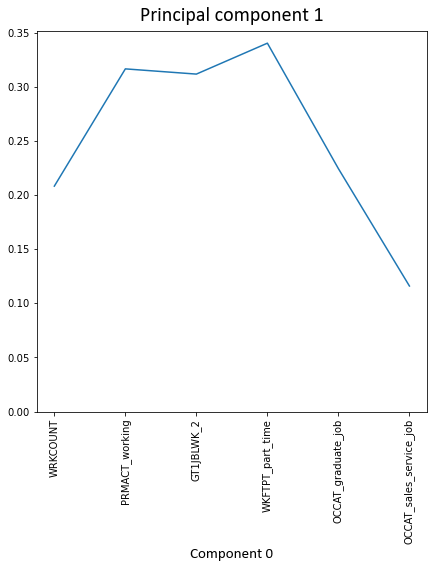
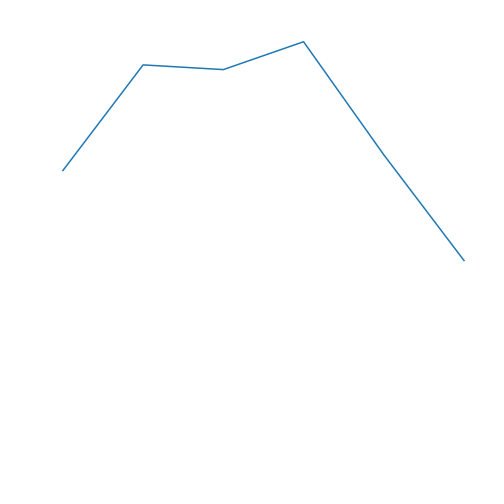
owiehfklwhelkjhflqew

diff --git a/index.html b/index.html
@@ -5,6 +5,7 @@
     <meta name="viewport" content="width=device-width, initial-scale=1.0">
     <meta description="Final Project in Social Data Visualization and Analysis - Human and Environmental analysis of electric car distribution and ownership. ">
     <title>Social Data Visualization</title>
+    <!-- <link rel="stylesheet" href="https://www.w3schools.com/w3css/4/w3.css"> -->
     <link rel="stylesheet" href="https://cdnjs.cloudflare.com/ajax/libs/font-awesome/5.15.4/css/all.min.css">
     <link rel="stylesheet" href="css/main.css">
     <script src="https://unpkg.com/scrollreveal"></script>
@@ -98,8 +99,10 @@
         <div class="content2">
           <h4>Compare the data directly</h4>
           <div class="inlined-graphs">
-            <iframe src="docs/tmp.html" height = '800', width = '1500' frameborder="0"></iframe>
-            <iframe src="docs/tmp.html" height = '800', width = '1500' frameborder="0"></iframe>
+            <iframe src="docs/tmp.html" frameborder="0" scrolling="yes"                       
+            height="700px" width="90%"></iframe>
+            <iframe src="docs/tmp.html" frameborder="0" scrolling="yes"                           
+            height="700px" width="90%"></iframe>
           </div>
         </div>
         <div class="content2">
@@ -130,28 +133,136 @@
         find the axes along which the dataset has most variance, thus making them the most central factors of the dataset. 
         Let's inspect the significant variables in the first three principal components so that we get a feeling for 
         what they represent: 
-        <div class="content">
-          <div class="image">
-            <img src="docs/princ_comp1.png" alt="">
-            <img src="docs/princ_comp2.png" alt="">
-            <img src="docs/princ_comp3.png" alt="">
+        <div class="w3-content w3-display-container">
+
+          <div class="w3-display-container mySlides">
+            <img src="docs/princ_comp1.png" style="width: 100%;">
           </div>
-        </div>
-        We can describe component 1 as an occupation vector, vector 2 seems to be a combination of transportation habits,
-        especially public transport. Vector 3 contains variables on electric or hybrid car ownership, paired with information on education and age. 
-        We plot the electric vehicle owners on these axes to see if they look different than the distribution of regular vehicle owners (which we suspect). 
-        <div class="content">
-          <div>
-            <img src="docs/people.jpg" alt="">
+          
+          <div class="w3-display-container mySlides">
+            <img src="docs/princ_comp2.png" style="width:100%">
           </div>
-          <div class="text-box">
-            <h3>Can Electric Vehicle Ownership be pre</h3>
-            <p>Lorem ipsum dolor sit amet, consectetur adipisicing elit, sed do eiusmod tempor incididunt ut labore et dolore magna
-              aliqua. Ut enim ad minim veniam, quis nostrud exercitation ullamco laboris nisi ut aliquip ex ea commodo consequat. Duis
-              aute irure dolor in reprehenderit in voluptate velit esse cillum dolore eu fugiat nulla pariatur.</p>
+          
+          <div class="w3-display-container mySlides">
+            <img src="docs/princ_comp3.png" style="height:700px">
           </div>
+          <div class="w3-display-container mySlides">
+            <img src="docs/princ_comp4.png" style="width:100%">
+          </div>
+          <div class="w3-display-container mySlides">
+            <img src="docs/princ_comp5.png" style="width:100%">
+          </div>
+          <div class="w3-display-container mySlides">
+            <img src="docs/princ_comp6.png" style="width:100%">
+          </div>
+          <div class="w3-display-container mySlides">
+            <img src="docs/princ_comp7.png" style="width:100%">
+          </div>
+          <div class="w3-display-container mySlides">
+            <img src="docs/princ_comp8.png" style="width:100%">
+          </div>
+          <div class="w3-display-container mySlides">
+            <img src="docs/princ_comp9.png" style="width:100%">
+          </div>
+          <div class="w3-display-container mySlides">
+            <img src="docs/princ_comp10.png" style="width:100%">
+          </div>
+          <button class="w3-button w3-display-left w3-black" onclick="plusDivs(-1)">&#10094;</button>
+          <button class="w3-button w3-display-right w3-black" onclick="plusDivs(1)">&#10095;</button>
 
         </div>
+        <script>
+          var slideIndex = 1;
+          showDivs(slideIndex);
+          
+          function plusDivs(n) {
+            showDivs(slideIndex += n);
+          }
+          
+          function showDivs(n) {
+            var i;
+            var x = document.getElementsByClassName("mySlides");
+            if (n > x.length) {slideIndex = 1}
+            if (n < 1) {slideIndex = x.length}
+            for (i = 0; i < x.length; i++) {
+               x[i].style.display = "none";  
+            }
+            x[slideIndex-1].style.display = "block";  
+          }
+        </script>
+        We can describe component 1 as an occupation vector, vector 2 seems to be a combination of transportation habits,
+        especially public transport. Vector 3 contains variables on electric or hybrid car ownership, paired with information on education and age. 
+        We can continue evaluating the other variables that way. In this case there's the 10 principal components, who account in total for around 40% of the
+        variance in the dataset. This might not seem like a lot but keep in mind that in this dataset there's a total of 89 principal components.
+        We plot the electric vehicle owners on these axes to see if they look different than the distribution of regular vehicle owners (which we suspect). For 
+        this we choose a jitter plot, so it is just the value on the principal component axes, with some noise added to make 
+        it visual. 
+        <div class="w3-content w3-display-container">
+
+          <div class="w3-display-container mySlides2">
+            <img src="docs/princ_comp_classes1.png" style="width: 100%;">
+          </div>
+          
+          <div class="w3-display-container mySlides2">
+            <img src="docs/princ_comp_classes2.png" style="width:100%">
+          </div>
+          
+          <div class="w3-display-container mySlides2">
+            <img src="docs/princ_comp_classes3.png" style="height:100%">
+          </div>
+          <div class="w3-display-container mySlides2">
+            <img src="docs/princ_comp_classes4.png" style="width:100%">
+          </div>
+          <div class="w3-display-container mySlides2">
+            <img src="docs/princ_comp_classes5.png" style="width:100%">
+          </div>
+          <div class="w3-display-container mySlides2">
+            <img src="docs/princ_comp_classes6.png" style="width:100%">
+          </div>
+          <div class="w3-display-container mySlides2">
+            <img src="docs/princ_comp_classes7.png" style="width:100%">
+          </div>
+          <div class="w3-display-container mySlides2">
+            <img src="docs/princ_comp_classes8.png" style="width:100%">
+          </div>
+          <div class="w3-display-container mySlides2">
+            <img src="docs/princ_comp_classes9.png" style="width:100%">
+          </div>
+          <div class="w3-display-container mySlides2">
+            <img src="docs/princ_comp_classes10.png" style="width:100%">
+          </div>
+          <button class="w3-button w3-display-left w3-black" onclick="plusDivs2(-1)">&#10094;</button>
+          <button class="w3-button w3-display-right w3-black" onclick="plusDivs2(1)">&#10095;</button>
+
+        </div>
+        <script>
+          var slideIndex2 = 1;
+          showDivs2(slideIndex2);
+
+          function showDivs2(n) {
+            var i;
+            var x = document.getElementsByClassName("mySlides2");
+            if (n > x.length) {slideIndex2 = 1}
+            if (n < 1) {slideIndex2 = x.length}
+            for (i = 0; i < x.length; i++) {
+               x[i].style.display = "none";  
+            }
+            x[slideIndex2-1].style.display = "block";  
+          }
+
+          function plusDivs2(n) {
+            showDivs2(slideIndex2 += n);
+          }
+          
+        </script>
+         We can start to see some interesting patterns. The forst component for example seems to have two classes, 
+         although electric and non-electric vehicles are equally present among both classes. For component 2, the 
+         classes of electric and non-electric vehicle owners are a bit separated, although overlapping, The EV-owners 
+         seem to generally have a higher value of this component, indicating that they live in more urban areas and 
+         use public transport more (which is of course quite correlated). Principal component three seems to entirely
+         separate the data, but here we need to be careful. This component contain, among others the separator "alternative fuel". 
+         So this will of course have this separation. The reader is welcome to continue this data exploration, using 
+         the slideshows presented. 
       </div>
     </section>
 

diff --git a/css/main.css b/css/main.css
@@ -176,9 +176,6 @@
   display: -webkit-box;
   display: -ms-flexbox;
   display: flex;
-  -webkit-box-align: center;
-      -ms-flex-align: center;
-          align-items: center;
 }
 
 .sec-02 .content2 .inlined-graphs iframe {
@@ -218,6 +215,10 @@
   margin-bottom: 50px;
 }
 
+.sec-03 .mySlides {
+  display: none;
+}
+
 .sec-03 .content {
   display: -webkit-box;
   display: -ms-flexbox;
@@ -235,7 +236,6 @@
   border: 1px solid rgba(255, 255, 255, 0.1);
   padding: 1em;
   margin: 2em 0em 2em 0em;
-  width: 80%;
   position: relative;
   overflow: hidden;
 }
@@ -295,5 +295,59 @@
 
 .source-section a:hover {
   color: var(--dtu-color);
+}
+
+.w3-display-container {
+  margin-top: 2em;
+  position: relative;
+  border-radius: 10px;
+  max-width: 700px;
+  max-height: 700px;
+}
+
+.w3-button {
+  border: none;
+  display: inline-block;
+  padding: 8px 16px;
+  vertical-align: middle;
+  overflow: hidden;
+  text-decoration: none;
+  color: inherit;
+  background-color: inherit;
+  text-align: center;
+  cursor: pointer;
+  white-space: nowrap;
+}
+
+.w3-display-left {
+  position: absolute;
+  top: 50%;
+  left: 0%;
+  -webkit-transform: translate(0%, -50%);
+          transform: translate(0%, -50%);
+  -ms-transform: translate(0%, -50%);
+}
+
+.w3-black, .w3-hover-black:hover {
+  color: #111222 !important;
+  background-color: #fff !important;
+}
+
+.w3-content, .w3-auto {
+  margin-left: auto;
+  margin-right: auto;
+}
+
+.w3-content {
+  max-width: 800px;
+}
+
+.w3-display-right {
+  position: absolute;
+  top: 50%;
+  right: 0%;
+  -webkit-transform: translate(0%, -50%);
+          transform: translate(0%, -50%);
+  -ms-transform: translate(0%, -50%);
 }
 /*# sourceMappingURL=main.css.map */

diff --git a/css/main.scss b/css/main.scss
@@ -151,9 +151,9 @@
         }
         .inlined-graphs {
             display: flex;
-            align-items: center;
             iframe {
                 display: block;
+
             }
         }
         .text-box {
@@ -188,6 +188,7 @@
         color: lightgray;
         margin-bottom: 50px;
     }
+    .mySlides {display:none;}
     .content{
         display: flex;
         align-items: center;
@@ -199,7 +200,6 @@
             border: 1px solid rgba(255, 255, 255, 0.1);
             padding: 1em;
             margin: 2em 0em 2em 0em;
-            width: 80%;
             position: relative;
             overflow: hidden;
             img {
@@ -259,3 +259,17 @@
 
 }
 
+.w3-display-container{
+    margin-top: 2em;
+    position:relative;
+    border-radius: 10px;
+    max-width: 700px;
+    max-height: 700px;
+    
+}
+
+.w3-button{border:none;display:inline-block;padding:8px 16px;vertical-align:middle;overflow:hidden;text-decoration:none;color:inherit;background-color:inherit;text-align:center;cursor:pointer;white-space:nowrap}
+.w3-display-left{position:absolute;top:50%;left:0%;transform:translate(0%,-50%);-ms-transform:translate(-0%,-50%)}
+.w3-black,.w3-hover-black:hover{color:#111222!important;background-color:#fff!important}
+.w3-content,.w3-auto{margin-left:auto;margin-right:auto;}.w3-content{max-width:800px}
+.w3-display-right{position:absolute;top:50%;right:0%;transform:translate(0%,-50%);-ms-transform:translate(0%,-50%)}
